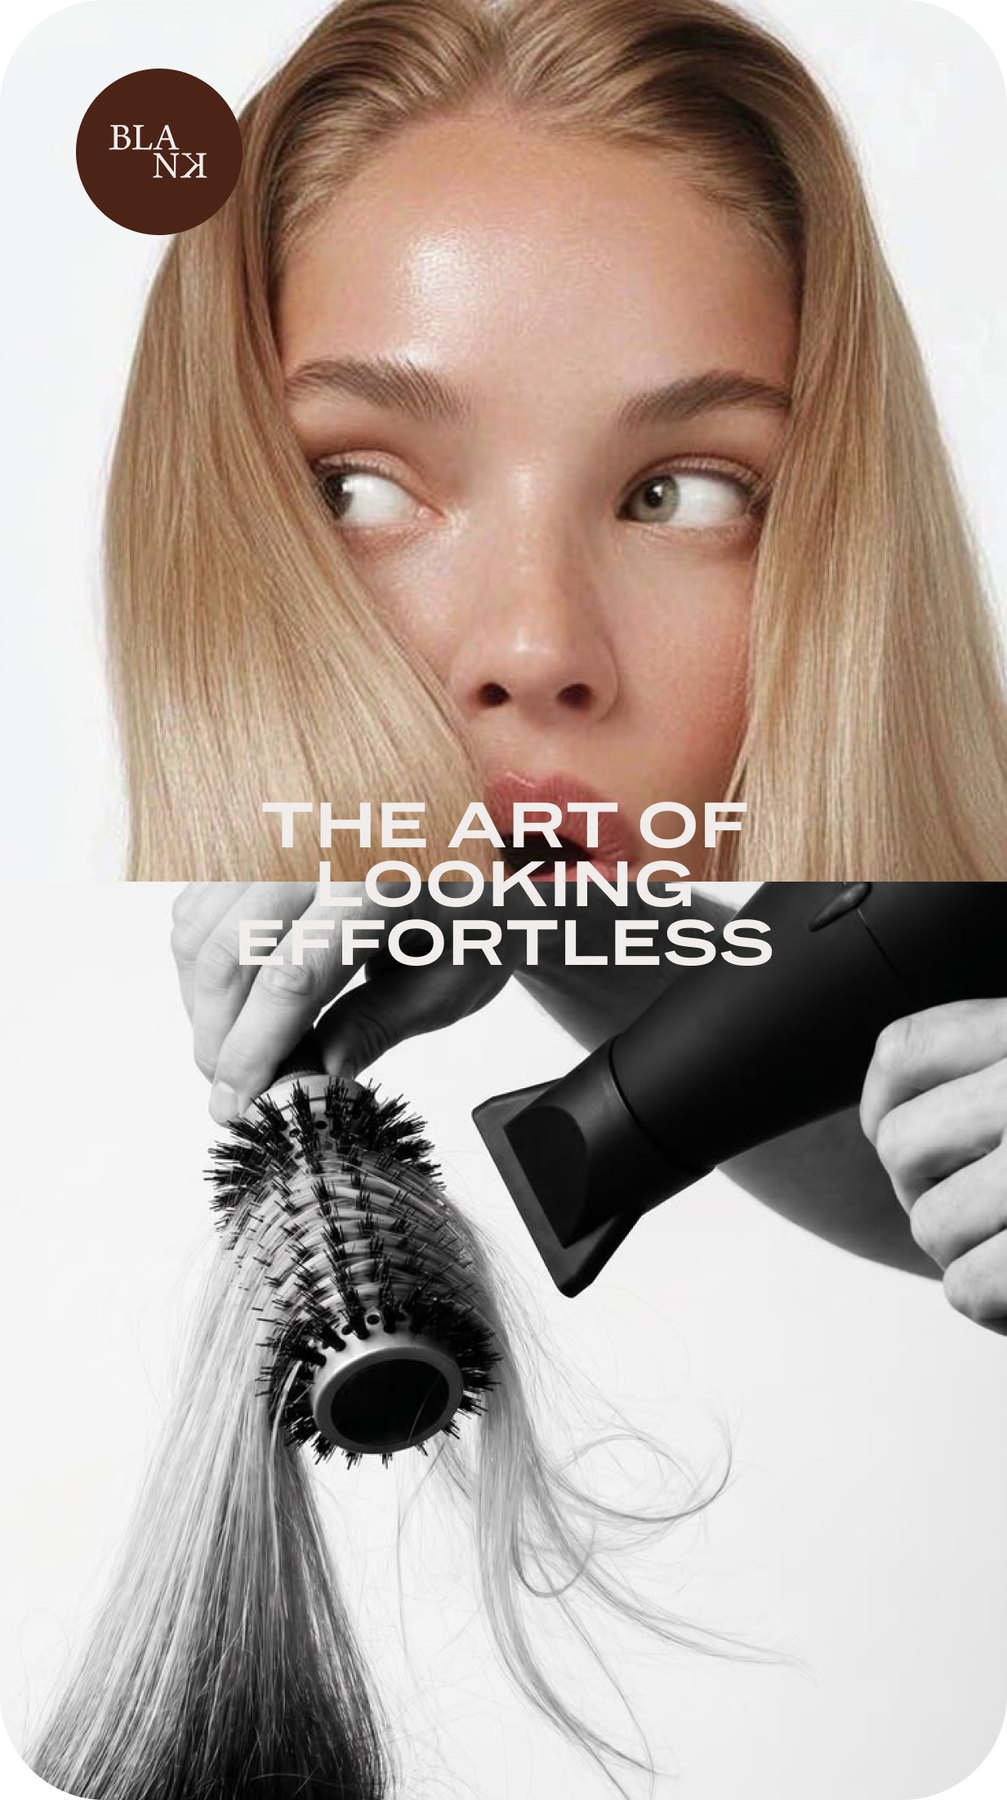
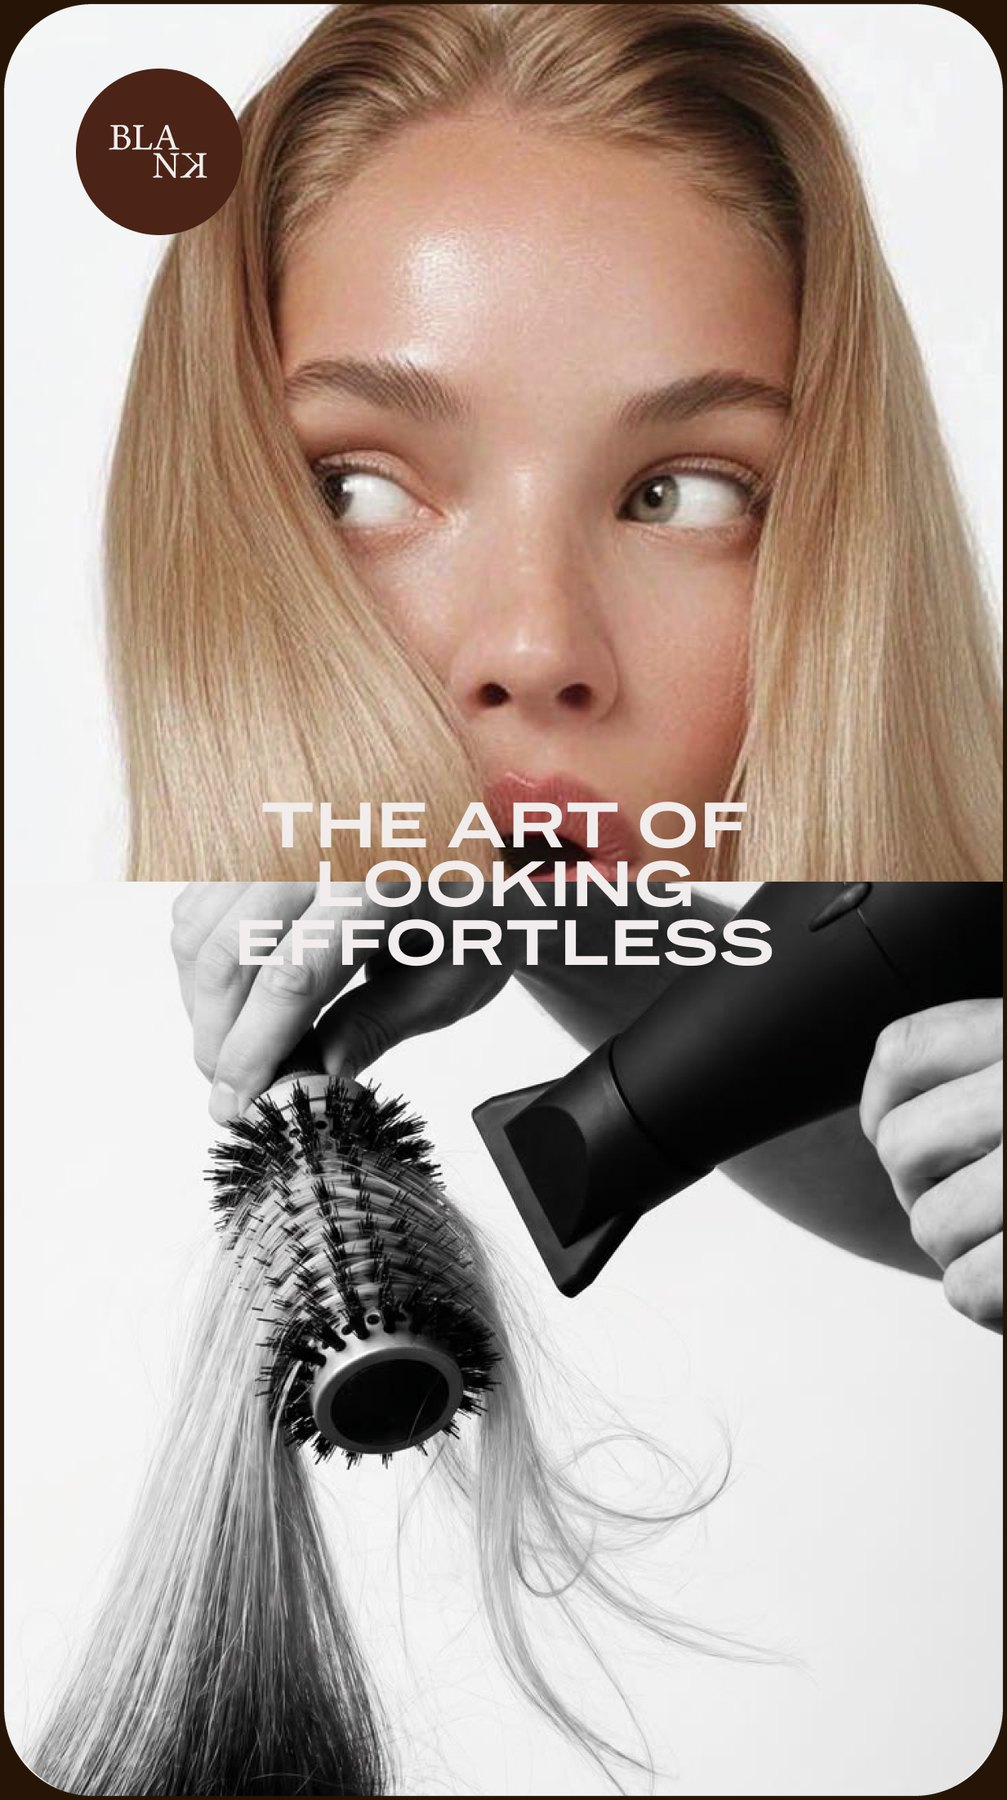
Fix white edges on the social screens
The Figma export came back fully opaque with pure-white corners rather than
transparent ones, so the CSS radius was rounding a box whose corners were
already white — and rounding a second time left a pale arc.

The artwork's own radius measures exactly 113px on the 1233px export (9.16%
of width). That shape is now masked in against the panel ground with a
supersampled edge, inset 5px to trim the export's white anti-aliased ring,
and the CSS radius is gone so nothing rounds twice.

Changed region(s): [[0.0, 0.0, 1.0, 1.0]]

diff --git a/work.html b/work.html
@@ -27,7 +27,7 @@
 <!-- Neue Haas Grotesk Display via Adobe Fonts -->
 <link rel="stylesheet" href="https://use.typekit.net/qay0tct.css">
 <link href="https://fonts.googleapis.com/css2?family=Inter:wght@400;500;700&display=swap" rel="stylesheet">
-<link rel="stylesheet" href="styles.css?v=11">
+<link rel="stylesheet" href="styles.css?v=12">
 </head>
 <body>
 
@@ -160,6 +160,6 @@
   const io = new IntersectionObserver(es => es.forEach(e => e.isIntersecting && e.target.classList.add('in')), { threshold:.08 });
   document.querySelectorAll('.reveal').forEach(el => io.observe(el));
 </script>
-<script src="cases.js?v=11"></script>
+<script src="cases.js?v=12"></script>
 </body>
 </html>

diff --git a/index.html b/index.html
@@ -27,7 +27,7 @@
 <!-- Neue Haas Grotesk Display via Adobe Fonts -->
 <link rel="stylesheet" href="https://use.typekit.net/qay0tct.css">
 <link href="https://fonts.googleapis.com/css2?family=Inter:wght@400;500;700&display=swap" rel="stylesheet">
-<link rel="stylesheet" href="styles.css?v=11">
+<link rel="stylesheet" href="styles.css?v=12">
 </head>
 <body>
 
@@ -252,6 +252,6 @@
     });
   });
 </script>
-<script src="cases.js?v=11"></script>
+<script src="cases.js?v=12"></script>
 </body>
 </html>

diff --git a/styles.css b/styles.css
@@ -604,7 +604,8 @@ body.case-locked { overflow:hidden; }
 }
 .cs-screens img {
   width:clamp(140px,26%,300px); height:auto; display:block;
-  border-radius:clamp(10px,1.4vw,20px);
+  /* the 9.16% corner radius is baked into the artwork against the panel
+     ground, so no CSS radius here — rounding twice is what left white edges */
 }
 .cs-trio {
   display:grid; grid-template-columns:repeat(3,1fr);

diff --git a/info.html b/info.html
@@ -27,7 +27,7 @@
 <!-- Neue Haas Grotesk Display via Adobe Fonts -->
 <link rel="stylesheet" href="https://use.typekit.net/qay0tct.css">
 <link href="https://fonts.googleapis.com/css2?family=Inter:wght@400;500;700&display=swap" rel="stylesheet">
-<link rel="stylesheet" href="styles.css?v=11">
+<link rel="stylesheet" href="styles.css?v=12">
 </head>
 <body class="info-body">
 
